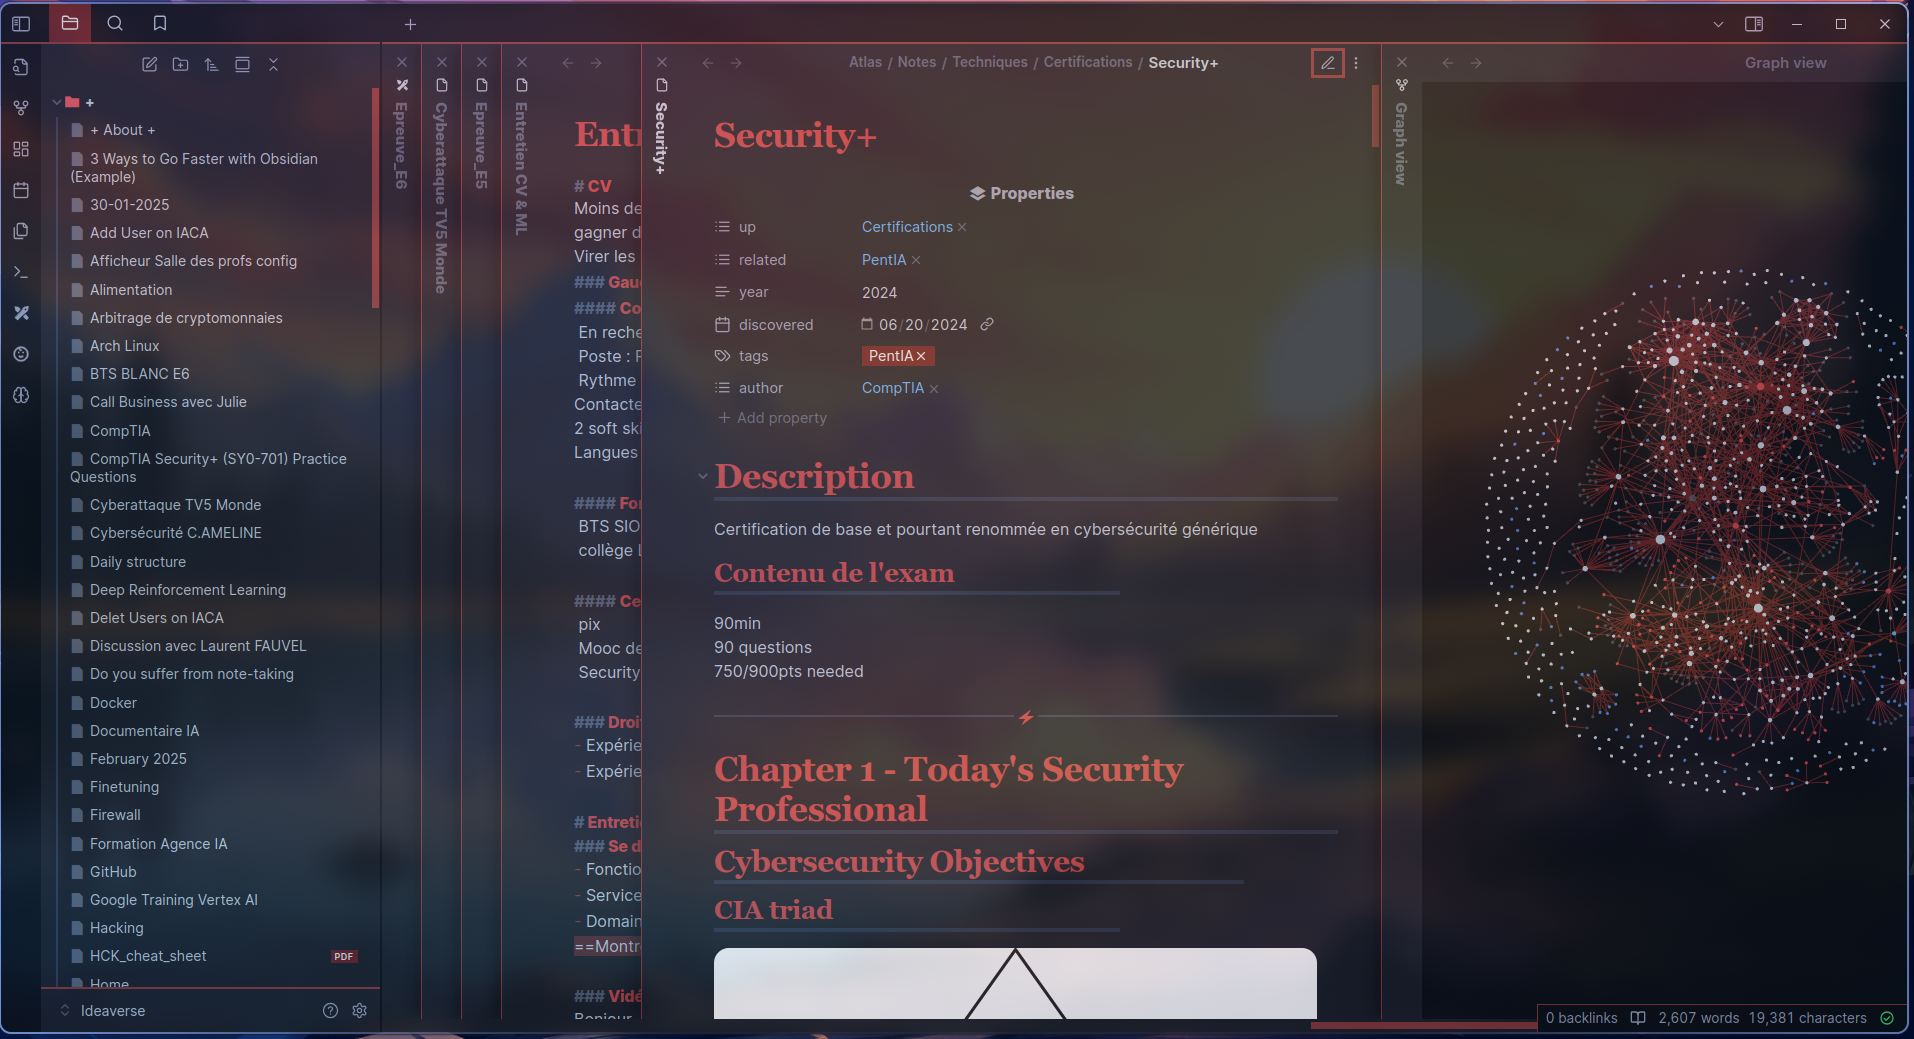
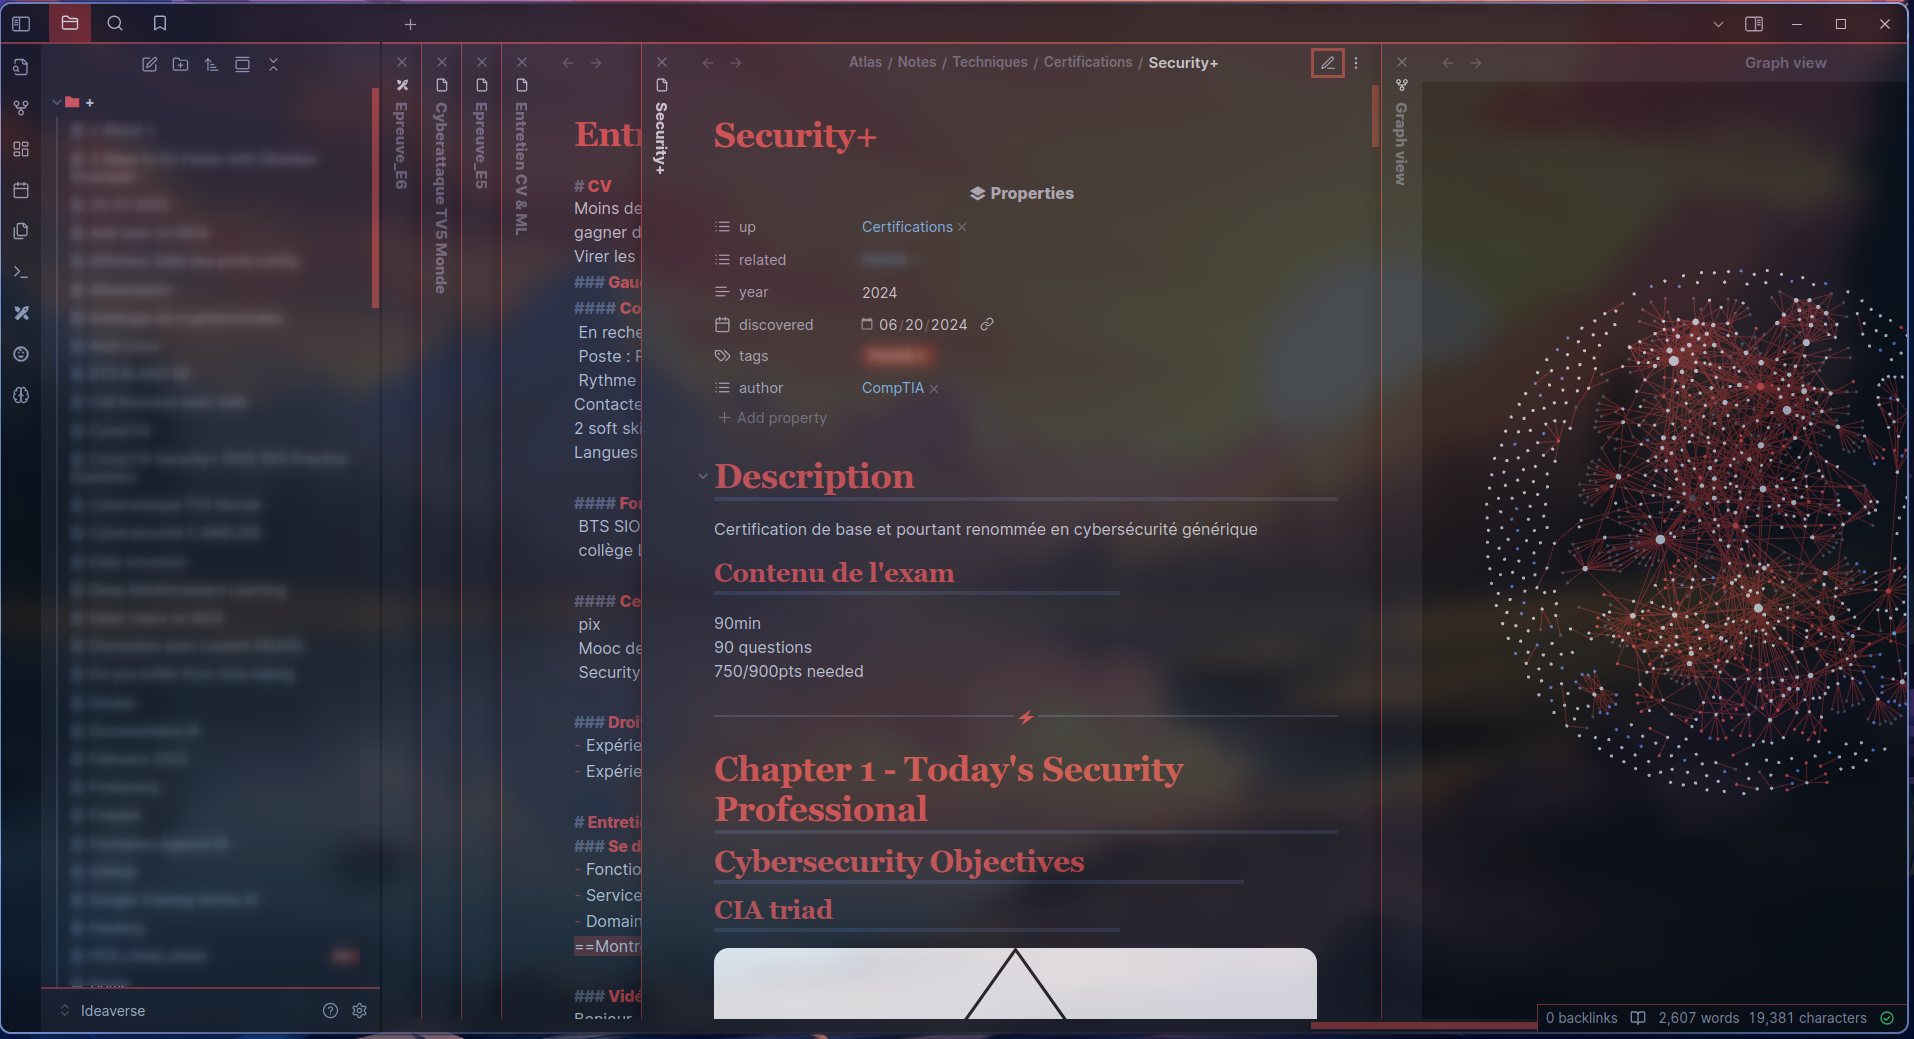
correction post epreuve

Changed region(s): [[0.0308, 0.1232, 0.185, 0.9548], [0.4624, 0.3388, 0.4932, 0.3696], [0.1233, 0.1232, 0.1541, 0.154]]

diff --git a/index.html b/index.html
@@ -128,9 +128,6 @@
                     </div>
                     <div class="about-text">
                         <p>
-                            Actuellement toujours en cours d'étude, je vous propose sur ce portfolio de retrouver
-                            ci-dessous les différentes études, et projet professionnel que j'ai pu entreprendre au sein
-                            de ma carrière. Vous retrouverez ci-dessous mon CV ainsi que mes différents projets
                             actuellement étudiant en BTS SIO option SISR a l'Institut Informatique Appliqué de Saint-Nazaire,
                             vous retrouverez ci-dessous mon CV ainsi que mes différents projets.
                         </p>
@@ -138,96 +135,18 @@
                     <a class="btn"
                        href="https://www.canva.com/design/DAGX27dp8ZY/XQgte_-3WaClixvQszgZcg/view"
                        target="_blank">CV</a>
-                    <!--<a class="btn"
-                       href="https://www.canva.com/design/DAEiHWnMQCo/dcXbUXEMSmDVoTsq5jYaAg/edit?utm_content=DAEiHWnMQCo&utm_campaign=designshare&utm_medium=link2&utm_source=sharebutton"
-                       target="_blank">Lettre de motivation</a>-->
                 </div>
             </div>
-
-
-            <section class="facts">
-                <div class="container">
-                    <br>
-                    <br>
-                    <div class="section-title">
-                        <h2>Qu'est ce que le <b>BTS SIO</b> ?</h2>
-                        <br>
-                        <p>Le BTS SIO (Service Informatique aux Organisations) est un programme de niveau Bac+2, qui
-                            forme des informaticiens aussi bien doués pour le développement que pour
-                            l'administration et la maintenance d'un réseau informatique.</p>
-                        <br>
-                        <h4>Le BTS SIO propose deux spécialités :</h4><br>
-                        <div class="row justify-content-around spec_bts">
-
-                            <div class="col-xl-5 bts_sisr aos-init aos-animate" data-aos="fade-left">
-                                <h4><i class="icofont-network"></i> Option <b>SISR</b></h4>
-                                <h6> L’option Solution d’infrastructure, systèmes et réseaux forme des
-                                    professionnels des réseaux et équipements informatiques (installation,
-                                    maintenance, sécurité). En sortant d’un <b>BTS SIO</b> <b>SISR</b>, vous serez
-                                    capables de gérer et d’administrer le réseau d’une société et d’assurer sa
-                                    sécurité et sa maintenance. </h6>
-                                <h6> Les techniciens supérieurs en informatique option <b>SISR</b>, peuvent accéder
-                                    aux métiers de :
-                                    <ul>
-                                        <br><i class="fa-solid fa-caret-right"></i>&ensp;&ensp;Administrateur
-                                        systèmes et réseaux
-                                        <br>
-                                        <i class="fa-solid fa-caret-right"></i>&ensp;&ensp;Informaticien support et
-                                        déploiement
-                                        <br>
-                                        <i class="fa-solid fa-caret-right"></i>&ensp;&ensp;Pilote d’exploitation
-                                        <br>
-                                        <i class="fa-solid fa-caret-right"></i>&ensp;&ensp;Support Systèmes et
-                                        Réseaux <br>
-                                        <i class="fa-solid fa-caret-right"></i>&ensp;&ensp;Technicien
-                                        d’infrastructure <br>
-                                        <i class="fa-solid fa-caret-right"></i>&ensp;&ensp;Administrateur Sécurité des Systèmes
-                                        <br>
-                                        <i class="fa-solid fa-caret-right"></i>&ensp;&ensp;Technicien Réseaux
-                                    </ul>
-                                </h6>
-                            </div>
-                            <div class="col-xl-5 bts_slam aos-init aos-animate" data-aos="fade-right">
-                                <h4><i class="icofont-code"></i> Option <b>SLAM</b></h4>
-                                <h6> L’option Solutions logicielles et applications métiers forme des spécialistes
-                                    des logiciels (rédaction d’un cahier des charges, formulation des besoins et
-                                    spécifications, développement, intégration au sein de la société). </h6>
-                                <h6> Les techniciens supérieurs en informatique option <b>SLAM</b>, sont préparés
-                                    aux métiers de :
-                                    <ul>
-                                        <br><i class="fa-solid fa-caret-right"></i>&ensp;&ensp;Développeur
-                                        d’applications informatiques <br>
-                                        <i class="fa-solid fa-caret-right"></i>&ensp;&ensp;Développeur informatique
-                                        <br>
-                                        <i class="fa-solid fa-caret-right"></i>&ensp;&ensp;Analyste d’applications
-                                        ou d’études<br>
-                                        <i class="fa-solid fa-caret-right"></i>&ensp;&ensp;Analyste programmeur <br>
-                                        <i class="fa-solid fa-caret-right"></i>&ensp;&ensp;Programmeur analyste <br>
-                                        <i class="fa-solid fa-caret-right"></i>&ensp;&ensp;Programmeur
-                                        d’applications<br>
-                                        <i class="fa-solid fa-caret-right"></i>&ensp;&ensp;Responsable des services
-                                        applicatifs
-                                        <br>
-                                        <i class="fa-solid fa-caret-right"></i>&ensp;&ensp;Technicien d’études
-                                        informatiques
-                                    </ul>
-                                </h6>
-                            </div>
-                        </div>
-                    </div>
-                </div>
-            </section>
 
             <!-- Experience Start -->
             <div class="experience" id="experience">
                 <div class="container">
                     <header class="section-header text-center wow zoomIn" data-wow-delay="0.1s">
                         <h2>Mon parcours</h2>
-                        <h3>Mes expériences Professionnelles</h3>
-                        <p></p>
+                        <h3>Mes expériences Professionnelles et Scolaires</h3>
                     </header>
                     <div class="timeline">
-                        <div class="timeline-item right wow slideInRight" data-wow-delay="0.1s">
+                        <div class="timeline-item right wow slideInRight" data-wow-delay="0.1s"> <!-- Alternance STJO -->
                             <div class="timeline-text">
                                 <div class="timeline-date">28 août 2023 - 31 juillet 2025</div>
                                 <h2>Apprenti Administrateur Systèmes & Réseau</h2>
@@ -247,7 +166,22 @@
                                 </p>
                             </div>
                         </div>
-                        <div class="timeline-item left wow slideInLeft" data-wow-delay="0.1s">
+                        <div class="timeline-item left wow slideInLeft" data-wow-delay="0.1s"> <!-- BTS SIO IIA -->
+                            <div class="timeline-text">
+                                <div class="timeline-date">2023 - 2025</div>
+                                <h2>Institut Informatique Appliqué, <br>Saint-Nazaire, France</h2>
+                                <p>
+                                    BTS Services informatiques aux organisations<br>Option Solution d'Infrastructures Systèmes et Réseaux<br><br>
+                                    Pour ma future orientation professionnelle, je me suis orienté vers un BTS SIO dans
+                                    laquelle je pourrai améliorer mes compétences en informatique.<br>
+                                </p>
+                                <p>
+                                    <a class="btn" href="https://iia-formation.fr/campus/campus-saint-nazaire/" target="_blank">Site école &ensp; <i
+                                            class="fa-solid fa-arrow-up-right-from-square"></i></a>
+                                </p>
+                            </div>
+                        </div>
+                        <div class="timeline-item right wow slideInRight" data-wow-delay="0.1s"> <!-- Stage CSMSI -->
                             <div class="timeline-text">
                                 <div class="timeline-date">2021 - 1 semaine</div>
                                 <h2>Stagiaire</h2>
@@ -263,7 +197,22 @@
                                 </p>
                             </div>
                         </div>
-                        <div class="timeline-item right wow slideInRight" data-wow-delay="0.1s">
+                        <div class="timeline-item left wow slideInLeft" data-wow-delay="0.1s"> <!-- Lycée St Joseph -->
+                            <div class="timeline-text">
+                                <div class="timeline-date">2020 - 2023</div>
+                                <h2>Lycée Saint-Joseph, Machecoul, France</h2>
+                                <p>
+                                    Bac Général <br><br>
+                                    Poursuite d'un cursus général avec une spécialisation en Numérique, Mathémathiques et Anglais<br>
+                                </p>
+                                <p>
+                                    <a class="btn" href="https://www.saintjoseph-machecoul.fr" target="_blank">Site
+                                        école
+                                        &ensp; <i class="fa-solid fa-arrow-up-right-from-square"></i></a>
+                                </p>
+                            </div>
+                        </div>
+                        <div class="timeline-item right wow slideInRight" data-wow-delay="0.1s"> <!-- Stage Airbus -->
                             <div class="timeline-text">
                                 <div class="timeline-date">2020 - 1 semaine</div>
                                 <h2>Stagiaire</h2>
@@ -279,43 +228,7 @@
                                 </p>
                             </div>
                         </div>
-                    </div>
-                    <header class="section-header text-center wow zoomIn" data-wow-delay="0.1s">
-                        <h3>Mon Parcours Scolaire</h3>
-                        <p></p>
-                    </header>
-                    <div class="timeline">
-                        <div class="timeline-item left wow slideInLeft" data-wow-delay="0.1s">
-                            <div class="timeline-text">
-                                <div class="timeline-date">2023 - 2025</div>
-                                <h2>Institut Informatique Appliqué, <br>Saint-Nazaire, France</h2>
-                                <p>
-                                    BTS Services informatiques aux organisations<br>Option Solution d'Infrastructures Systèmes et Réseaux<br><br>
-                                    Pour ma future orientation professionnelle, je me suis orienté vers un BTS SIO dans
-                                    laquelle je pourrais améliorer mes compétences en informatique.<br>
-                                </p>
-                                <p>
-                                    <a class="btn" href="https://iia-formation.fr/campus/campus-saint-nazaire/" target="_blank">Site école &ensp; <i
-                                            class="fa-solid fa-arrow-up-right-from-square"></i></a>
-                                </p>
-                            </div>
-                        </div>
-                        <div class="timeline-item right wow slideInRight" data-wow-delay="0.1s">
-                            <div class="timeline-text">
-                                <div class="timeline-date">2020 - 2023</div>
-                                <h2>Lycée Saint-Joseph, Machecoul, France</h2>
-                                <p>
-                                    Bac Général <br><br>
-                                    Poursuite d'un cursus général avec une spécialisation en Numérique, Mathémathiques et Anglais<br>
-                                </p>
-                                <p>
-                                    <a class="btn" href="https://www.saintjoseph-machecoul.fr" target="_blank">Site
-                                        école
-                                        &ensp; <i class="fa-solid fa-arrow-up-right-from-square"></i></a>
-                                </p>
-                            </div>
-                        </div>
-                        <div class="timeline-item left wow slideInLeft" data-wow-delay="0.1s">
+                        <div class="timeline-item left wow slideInLeft" data-wow-delay="0.1s"> <!-- Collège St Joseph -->
                             <div class="timeline-text">
                                 <div class="timeline-date">2016 - 2019</div>
                                 <h2>Collège Saint-Joseph, Machecoul, France</h2>
@@ -338,16 +251,8 @@
                     <br>
                     <br>
                     <div class="section-title">
-                        <h2>L'épreuve E4 c'est quoi ?</h2>
-                        <br>
-                        <p>L’épreuve E4 est une épreuve importante du BTS SIO, elle est composée de deux
-                            projets ayant un contexte commun en rapport avec l’option choisie (SISR pour mon cas).
-                            L’objectif de cette épreuve est d’évaluer le candidat sur une des deux situations
-                            professionnelles qu’il aura réalisées sur les 2 ans de formation. Cette épreuve est aussi
-                            accompagnée d'un tableau des compétences, compétences qui devront être décrites et réalisées
-                            au cours des projets présentés.</p>
-                        <br>
-                        <h4 id="tab_competences">Tableau de compétences</h4><br>
+                        <h2>Mes compétences</h2>
+                        <p id="tab_competences">Tableau résumant mes compétences acquises en informatique sur la durée de formation</p><br>
                         <div class="about-cv">
                             <table class="table table-bordered table-striped table-responsive">
                                 <thead class="thead-dark">

diff --git a/css/style.css b/css/style.css
@@ -1001,10 +1001,6 @@ a:focus {
     border-color: var(--primary);
 }
 
-
-/*******************************/
-/********* Pricing CSS *********/
-/*******************************/
 .price {
     position: relative;
     width: 100%;
@@ -1330,6 +1326,102 @@ a:focus {
 .testimonial .owl-dot.active {
     background: var(--primary);
 }
+
+/*******************************/
+/******* Compétences CSS *******/
+/*******************************/
+
+.comp-container {
+    position: relative;
+    width: 100%;
+    overflow: hidden;
+    margin-bottom: 60px;
+  }
+.scroll-row {
+    position: relative;
+    padding: 20px 0;
+  }
+  .scroll-container {
+    display: flex;
+    gap: 20px;
+    /* Animation de défilement */
+    animation-duration: 40s;
+    animation-timing-function: linear;
+    animation-iteration-count: infinite;
+  }
+  /* Animation vers la gauche */
+  .scroll-container[data-direction="left"] {
+    animation-name: scroll-left;
+  }
+  /* Animation vers la droite */
+  .scroll-container[data-direction="right"] {
+    animation-name: scroll-right;
+  }
+  /* Pause de l'animation au survol de la rangée */
+  .scroll-row:hover .scroll-container {
+    animation-play-state: paused;
+  }
+  .slide-item {
+    flex-shrink: 0;
+    width: 200px;
+    text-align: center;
+    transition: transform 0.3s ease;
+    cursor: pointer;
+  }
+  .slide-item:hover {
+    transform: scale(1.05);
+  }
+  .slide-item img {
+    width: 100%;
+    height: auto;
+    border-radius: 4px;
+    margin-bottom: 8px;
+  }
+  .slide-item h3 {
+    font-size: 1.2rem;
+    color: #fff;
+    margin: 0.5rem 0 0.3rem;
+  }
+  .slide-item p {
+    font-size: 0.9rem;
+    color: #aaa;
+    margin: 0;
+  }
+  /* Défilement */
+  @keyframes scroll-left {
+    0% { transform: translateX(0); }
+    100% { transform: translateX(-33.33%); }
+  }
+  @keyframes scroll-right {
+    0% { transform: translateX(-33.33%); }
+    100% { transform: translateX(0); }
+  }
+  @media (max-width: 768px) {
+    @keyframes scroll-left {
+      0% { transform: translateX(0); }
+      100% { transform: translateX(-50%); }
+    }
+    @keyframes scroll-right {
+      0% { transform: translateX(-50%); }
+      100% { transform: translateX(0); }
+    }
+  }
+  /* Overlays en dégradé */
+  .gradient-left, .gradient-right {
+    position: absolute;
+    top: 0;
+    bottom: 0;
+    width: 100px;
+    z-index: 10;
+  }
+  .gradient-left {
+    left: 0;
+    background: linear-gradient(to right, #ffffff, transparent);
+  }
+  .gradient-right {
+    right: 0;
+    background: linear-gradient(to left, #ffffff, transparent);
+  }
 
 
 /*******************************/

diff --git a/js/main.js b/js/main.js
@@ -106,23 +106,3 @@
     });
 
 })(jQuery);
-
-//Initialize Swiper
-var swiper = new Swiper(".mySwiper", {
-    slidesPerView: 1,
-    spaceBetween: 30,
-    loop: true,
-    centeredSlides: true,
-    autoplay: {
-        delay: 30000,
-        disableOnInteraction: false,
-    },
-    pagination: {
-        el: ".swiper-pagination",
-        clickable: true,
-    },
-    navigation: {
-        nextEl: ".swiper-button-next",
-        prevEl: ".swiper-button-prev",
-    },
-});
